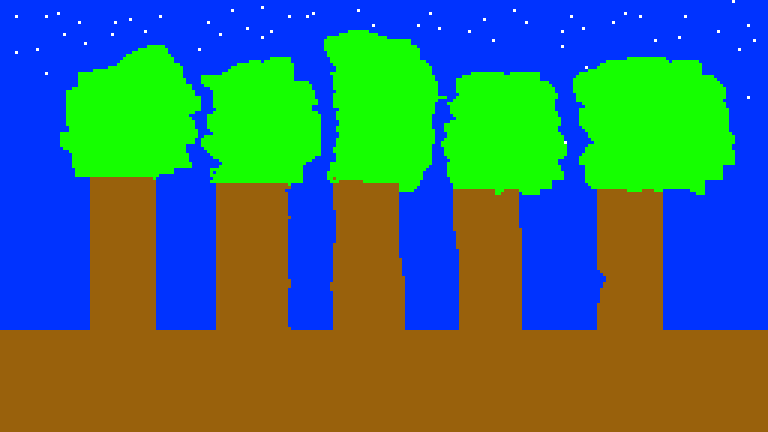
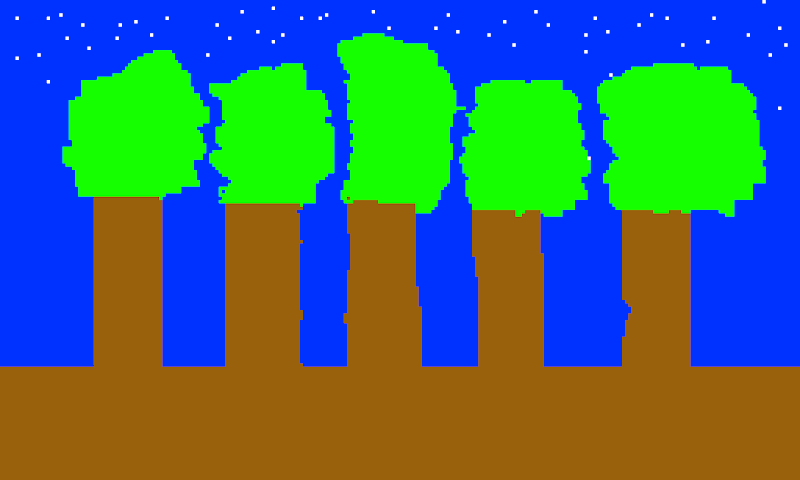
made walking and jumping work

diff --git a/NoObjections/core/src/com/missionbit/game/sprites/Hero.java b/NoObjections/core/src/com/missionbit/game/sprites/Hero.java
@@ -1,8 +1,10 @@
 package com.missionbit.game.sprites;
 
+import com.badlogic.gdx.Gdx;
 import com.badlogic.gdx.graphics.Texture;
 import com.badlogic.gdx.graphics.g2d.TextureRegion;
 import com.badlogic.gdx.math.Vector2;
+import com.missionbit.game.NoObjectionGame;
 
 
 /**
@@ -14,9 +16,12 @@ public class Hero {
     private Vector2 velocity;
     private Texture hero;
     private static final int GRAVITY = -12;
-    private static final int MOVEMENT = 100;
+    private static final int MOVEMENT = 48;
     private Animation heroAnimation;
     private Animation heroClimbingAni;
+
+    private int screenHeight = Gdx.graphics.getWidth();
+    private int screenWidth = Gdx.graphics.getWidth();
 //    private Texture heroClimbing;
     //Flipping directions
 
@@ -33,19 +38,18 @@ public class Hero {
 
     public void update(float dt) {
         heroAnimation.update(dt);
-
-//        if (climbing()) {
-//            heroClimbingAni.update(dt);
-//        }
-
+        //adds gravity
         if(position.y > 0) {
             velocity.add(0, GRAVITY);
         }
         velocity.scl(dt);
-        position.add(MOVEMENT * dt, velocity.y);
-        if(position.y < 0)
-            position.y = 0;
+        if(position.x + 127.5 < NoObjectionGame.WIDTH) {
+            position.add(MOVEMENT * dt, velocity.y);
+        }
 
+        if(position.y < 0) {
+            position.y = 0;
+        }
         velocity.scl(1/dt);
     }
 
@@ -64,6 +68,7 @@ public class Hero {
         velocity.y = 800;
     }
 
+
     public void fall() {
         velocity.y = -100;
     }
@@ -73,11 +78,11 @@ public class Hero {
     }
 
     public void left() {
-
+        velocity.x  = MOVEMENT * -1;
     }
 
     public void right() {
-
+        velocity.x  = MOVEMENT;
     }
 
 //    public boolean climbing() {

diff --git a/NoObjections/core/src/com/missionbit/game/states/PlayState.java b/NoObjections/core/src/com/missionbit/game/states/PlayState.java
@@ -17,9 +17,10 @@ public class PlayState extends State{
     public PlayState(GameStateManager gsm) {
         super(gsm);
         hero = new Hero(50, 100);
-        cam.setToOrtho(false, NoObjectionGame.WIDTH / 2, NoObjectionGame.HEIGHT / 2);
+        bg = new Texture("main_background.png");
+        cam.setToOrtho(false, NoObjectionGame.WIDTH, NoObjectionGame.HEIGHT);
 
-         bg = new Texture("main_background.png");
+
     }
 
     @Override
@@ -35,13 +36,15 @@ public class PlayState extends State{
         handleInput();
         hero.update(dt);
         cam.position.x = hero.getPosition().x + 80;
+        cam.position.y = hero.getPosition().y + 150;
         cam.update();
     }
 
     @Override
     public void render(SpriteBatch sb) {
+        sb.setProjectionMatrix(cam.combined);
         sb.begin();
-        sb.draw(bg, 0, 0, Gdx.graphics.getWidth(), Gdx.graphics.getHeight());
+        sb.draw(bg, 0, 0, NoObjectionGame.WIDTH, NoObjectionGame.HEIGHT);
         sb.draw(hero.getTexture(), hero.getPosition().x, hero.getPosition().y);
         sb.end();
     }

diff --git a/NoObjections/core/src/com/missionbit/game/states/MenuState.java b/NoObjections/core/src/com/missionbit/game/states/MenuState.java
@@ -20,7 +20,7 @@ public class MenuState extends State {
     public MenuState(GameStateManager gsm) {
         super(gsm);
         menu = new Texture("menuBackground.png");
-        cam.setToOrtho(false, NoObjectionGame.WIDTH, NoObjectionGame.HEIGHT);
+        //cam.setToOrtho(false, NoObjectionGame.WIDTH, NoObjectionGame.HEIGHT);
     }
 
     @Override
@@ -43,7 +43,7 @@ public class MenuState extends State {
 
     @Override
     public void render(SpriteBatch sb) {
-        sb.setProjectionMatrix(cam.combined);
+        //sb.setProjectionMatrix(cam.combined);
         sb.begin();
         sb.draw(menu, 0, 0, Gdx.graphics.getWidth(), Gdx.graphics.getHeight());
         sb.end();

diff --git a/NoObjections/core/src/com/missionbit/game/NoObjectionGame.java b/NoObjections/core/src/com/missionbit/game/NoObjectionGame.java
@@ -24,11 +24,12 @@ public class NoObjectionGame extends ApplicationAdapter {
 
 		gsm = new GameStateManager();
 		gsm.push(new MenuState(gsm));
+		Gdx.gl.glClearColor(0, 0, 0, 1);
 	}
 
 	@Override
 	public void render () {
-		Gdx.gl.glClearColor(0, 0, 0, 1);
+
 		Gdx.gl.glClear(GL20.GL_COLOR_BUFFER_BIT);
 
         gsm.update(Gdx.graphics.getDeltaTime());
